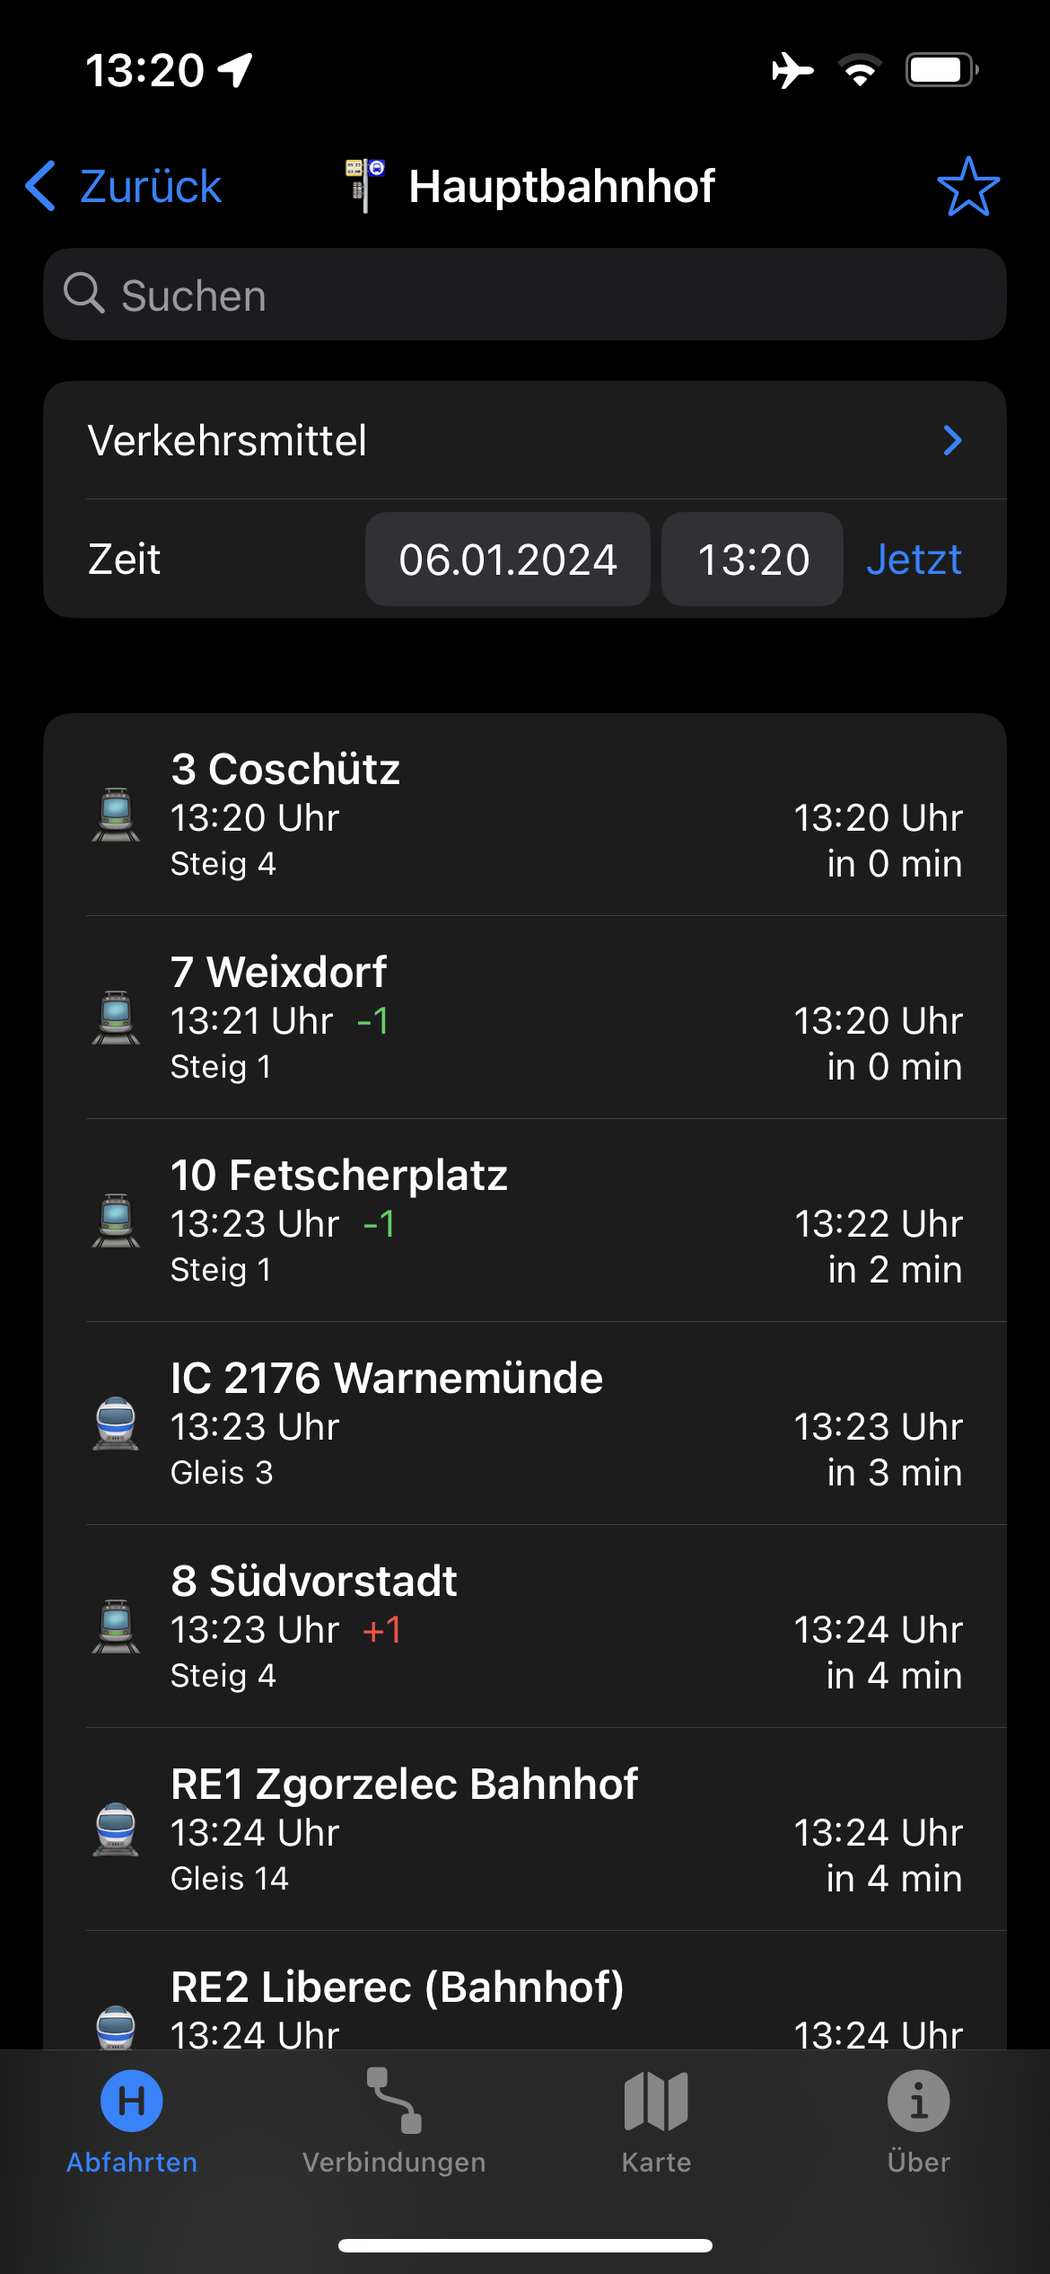
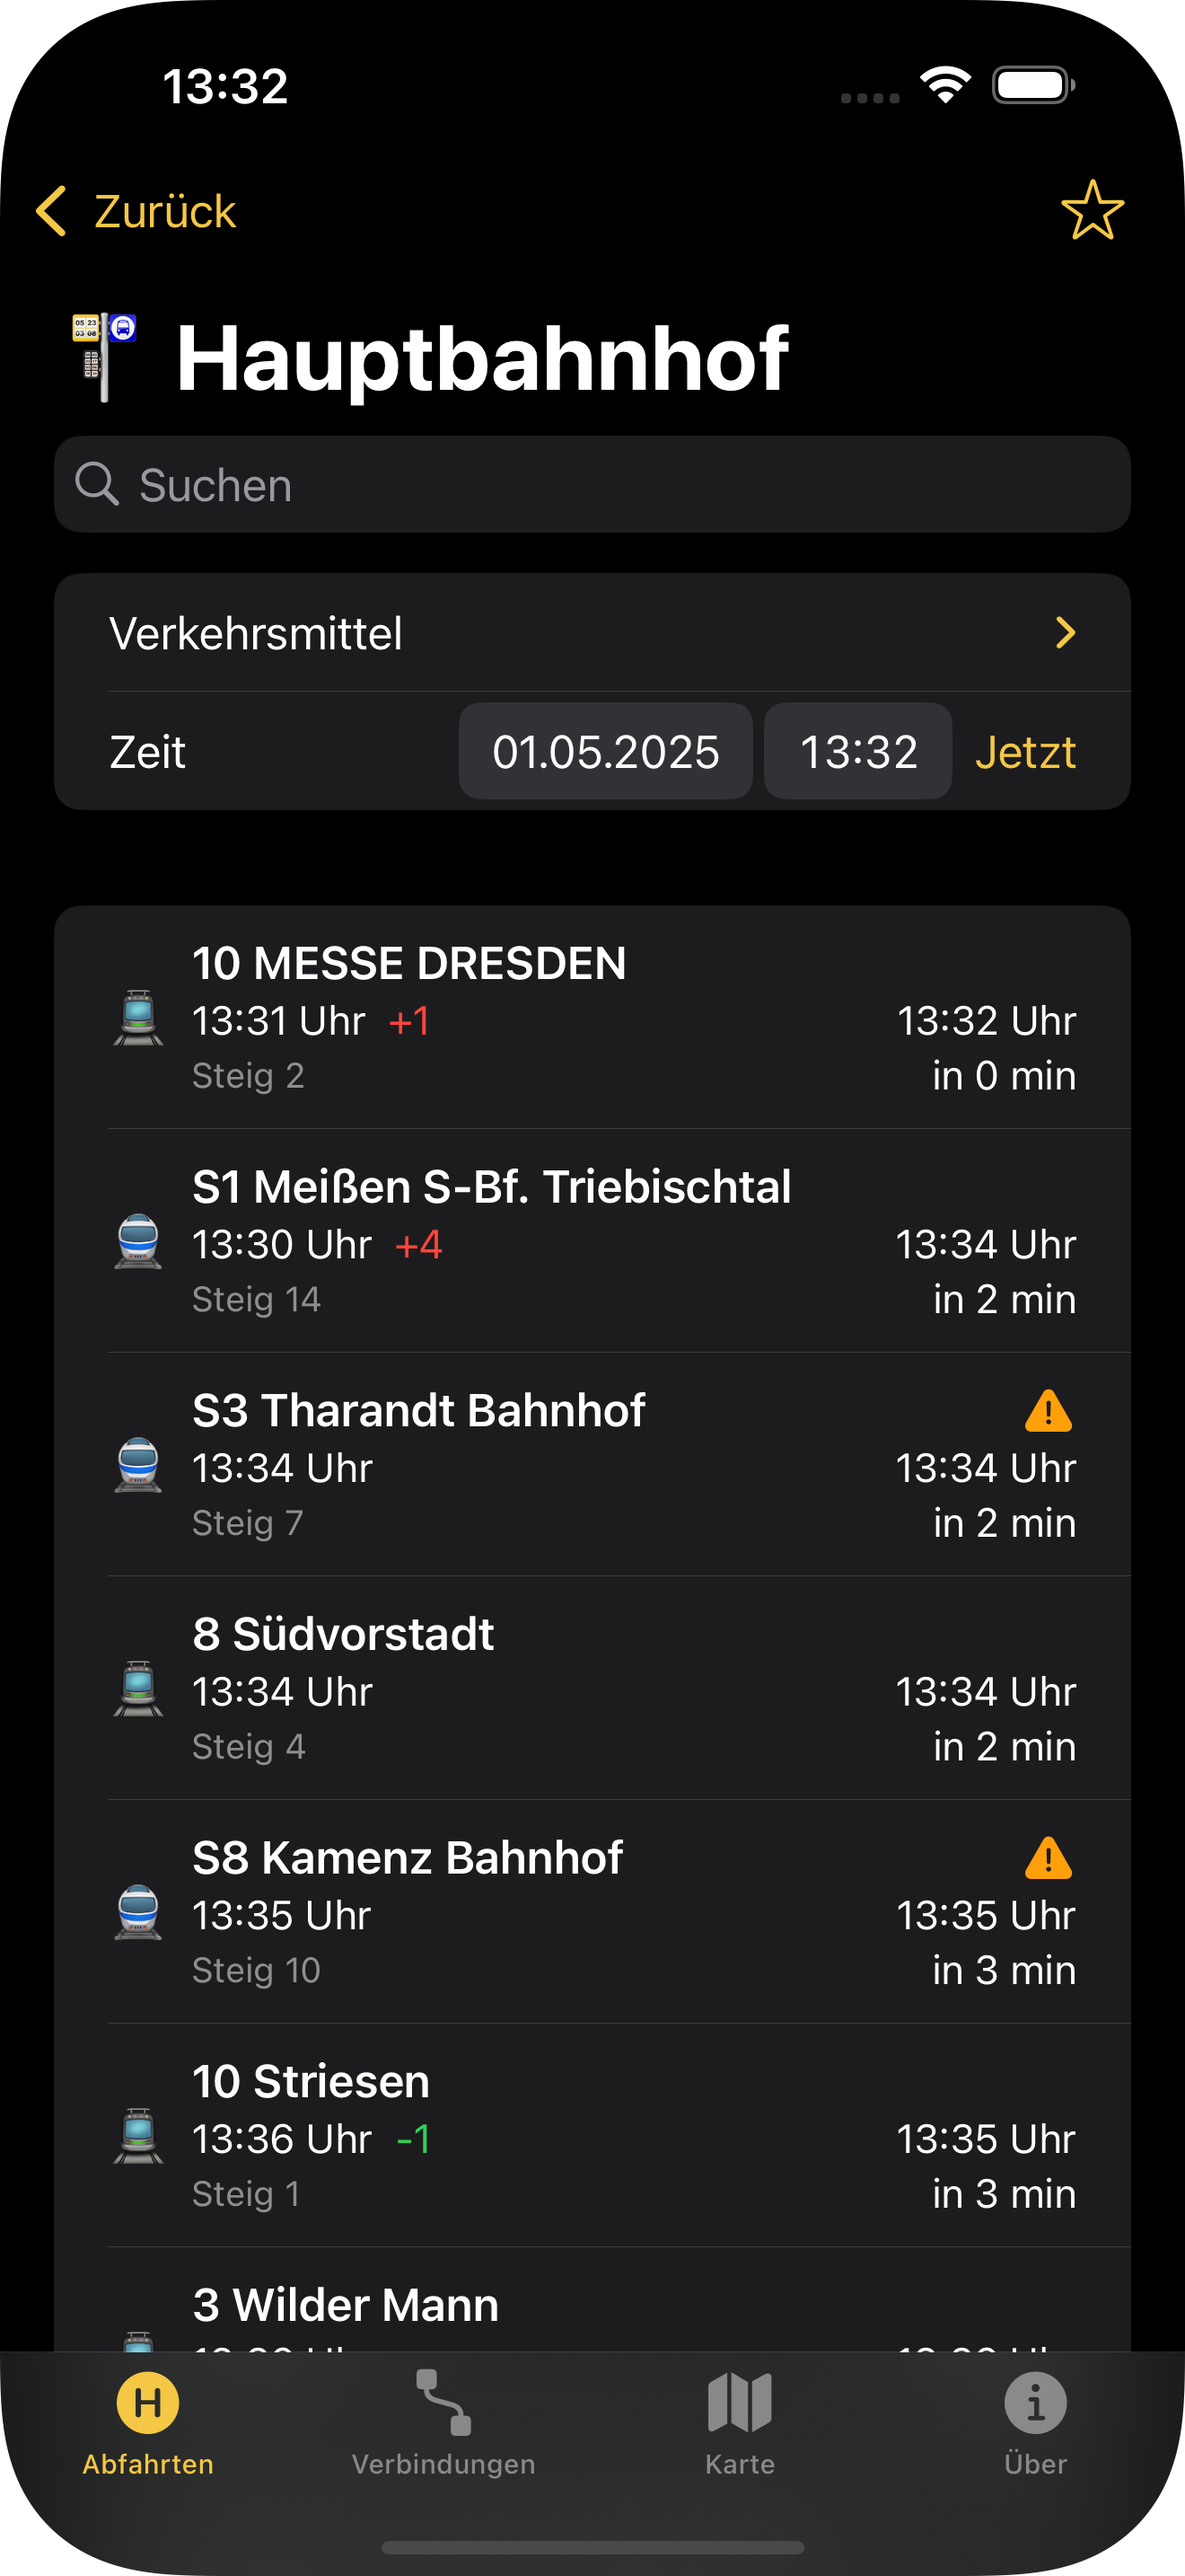
Update README.md images

Changed region(s): [[0.0, 0.0, 1.0, 1.0], [0.7692, 0.624, 0.9231, 0.9672], [0.4615, 0.4368, 0.6769, 0.468]]

diff --git a/README.md b/README.md
@@ -4,11 +4,30 @@ Haltestellen Navigator für Dresden
 [<img src="images/appstoreImage.svg" height="50">](https://apps.apple.com/de/app/haltestellenmonitor-dresden/id1266844674)
 
 ### Showcase
+
+#### Hauptansicht
+<p align="center">
+  <img src="images/example0.PNG" width="350">
+</p>
+
+#### Checke Abfahrten und deren Meldungen
 <p align="center">
   <img src="images/example1.PNG" width="350">
+  <img src="images/example5.PNG" width="350">
+  <img src="images/example6.PNG" width="350">
+</p>
+
+#### Plane einen Trip
+<p align="center">
   <img src="images/example2.PNG" width="350">
   <img src="images/example3.PNG" width="350">
 </p>
+
+#### Finde Haltestellen in der Kartenansicht
+<p align="center">
+  <img src="images/example4.PNG" width="350">
+</p>
+
 
 ## Anforderungen
 * iOS: 16.4
@@ -23,9 +42,9 @@ Für mehr Infos siehe: https://developer.apple.com/support/xcode/
 3. Erstelle eine Pullrequest
 4. Warte bis ein Maintainer diese annimmt oder Feedback gibt
 
-Bitte achte darauf das neuer Code zum Codestyle des bisher vorhandenen Codes ähnlich ist und verständlich geschrieben ist. 
+Bitte achte darauf das neuer Code zum Codestyle des bisher vorhandenen Codes ähnlich ist und verständlich geschrieben ist.
 
-### Allgemeine Anmerkungen dazu 
+### Allgemeine Anmerkungen dazu
 * Keine Binary Files (wie z.B. .DS_Store) Datein oder so pushen
 * Keine Identifier vom z.B. dem Development Team des projektes in der Pullrequest ändern
 * Bei Fragen zum Codestyle: [siehe hier](https://google.github.io/swift/)
